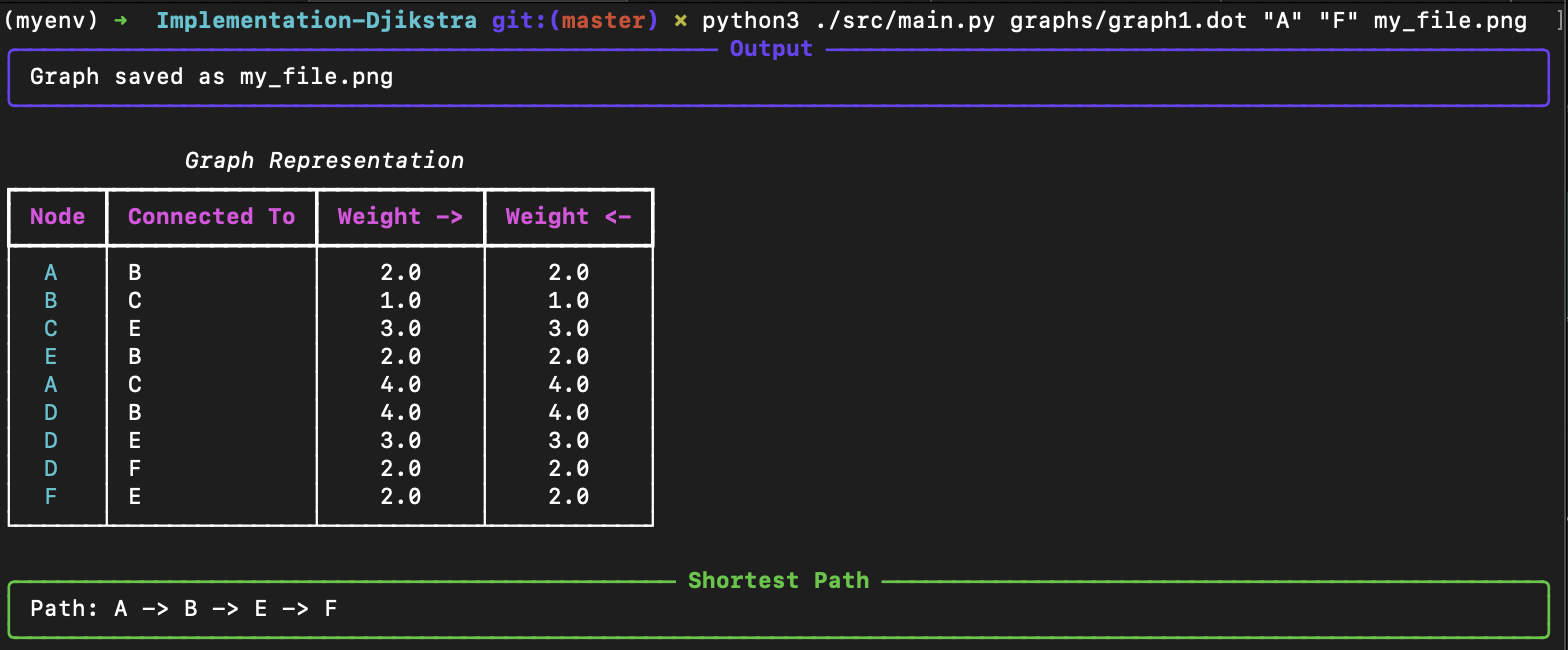
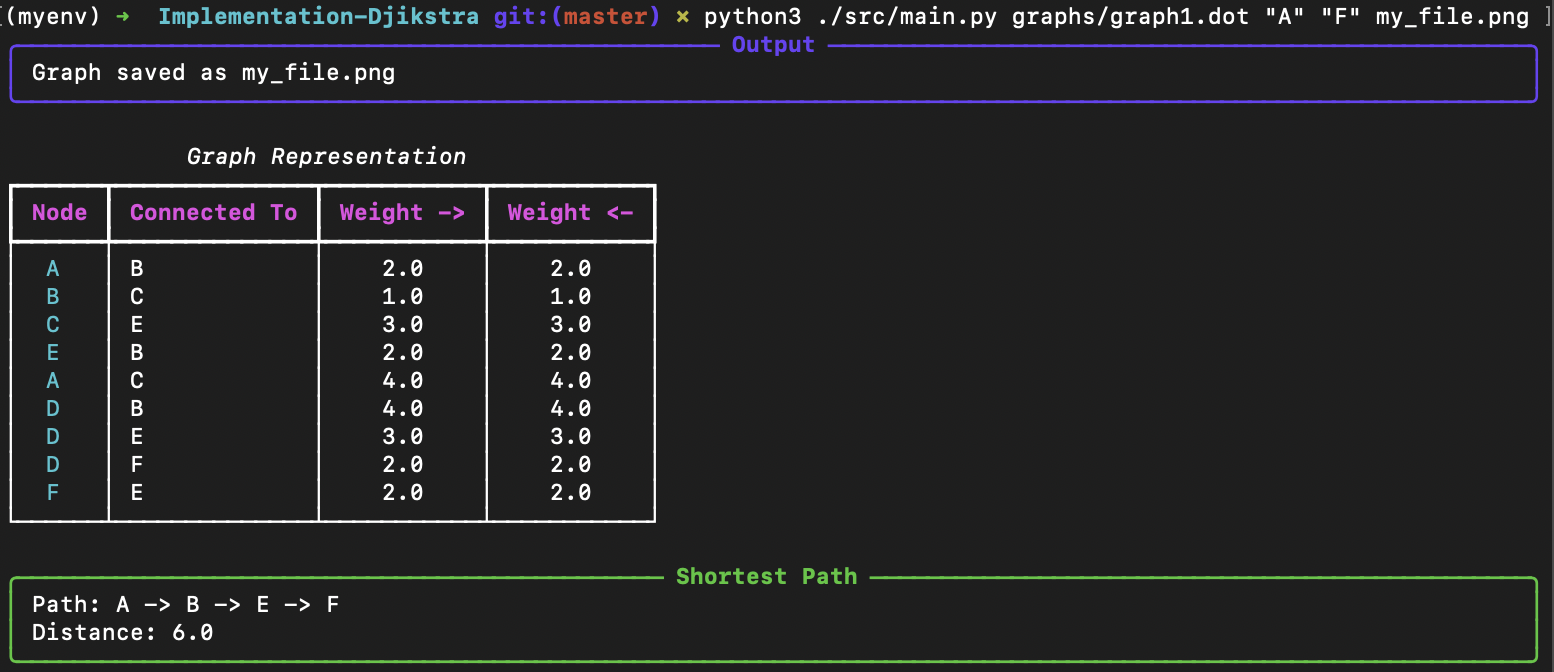
forgot distance to CLI print

Changed region(s): [[0.0, 0.0, 1.0, 1.0]]

diff --git a/src/print_cli.py b/src/print_cli.py
@@ -18,7 +18,7 @@ class LinkToPrint:
         return self.__str__()
 
 
-def print_cli(graph: pydot.Dot, shortest_path: list[str], output_file: str):
+def print_cli(graph: pydot.Dot, shortest_path: list[str], output_file: str, distance: int | float):
 
     def add_link(links: list[LinkToPrint], src: str, dest: str, weight: int | float) -> list[LinkToPrint]:
         for i, link in enumerate(links):
@@ -52,13 +52,13 @@ def print_cli(graph: pydot.Dot, shortest_path: list[str], output_file: str):
         
         return table
 
-    def show_path(path: list[str]):
+    def show_path(path: list[str], distance: int | float):
         if not path:
             console.print(Panel("No path found!", style="bold red"))
             return
 
         path_str = " -> ".join(path)
-        panel = Panel(f"Path: {path_str}", title="Shortest Path", border_style="bold green")
+        panel = Panel(f"Path: {path_str}\nDistance: {distance}", title="Shortest Path", border_style="bold green")
         console.print(panel)
 
     def show_output(output_file: str):
@@ -73,4 +73,4 @@ def print_cli(graph: pydot.Dot, shortest_path: list[str], output_file: str):
     console.print()
     console.print(table)
     console.print()
-    show_path(shortest_path)
+    show_path(shortest_path, distance)

diff --git a/src/main.py b/src/main.py
@@ -35,7 +35,7 @@ if __name__ == '__main__':
 
         data: dict[str, Node] = dijkstra_dot(graph, start)
 
-        print_cli(graph, [start] + data[end].path + [end], output_file)
+        print_cli(graph, [start] + data[end].path + [end], output_file, data[end].dist)
     
         last_node = start
         for node in data[end].path:
